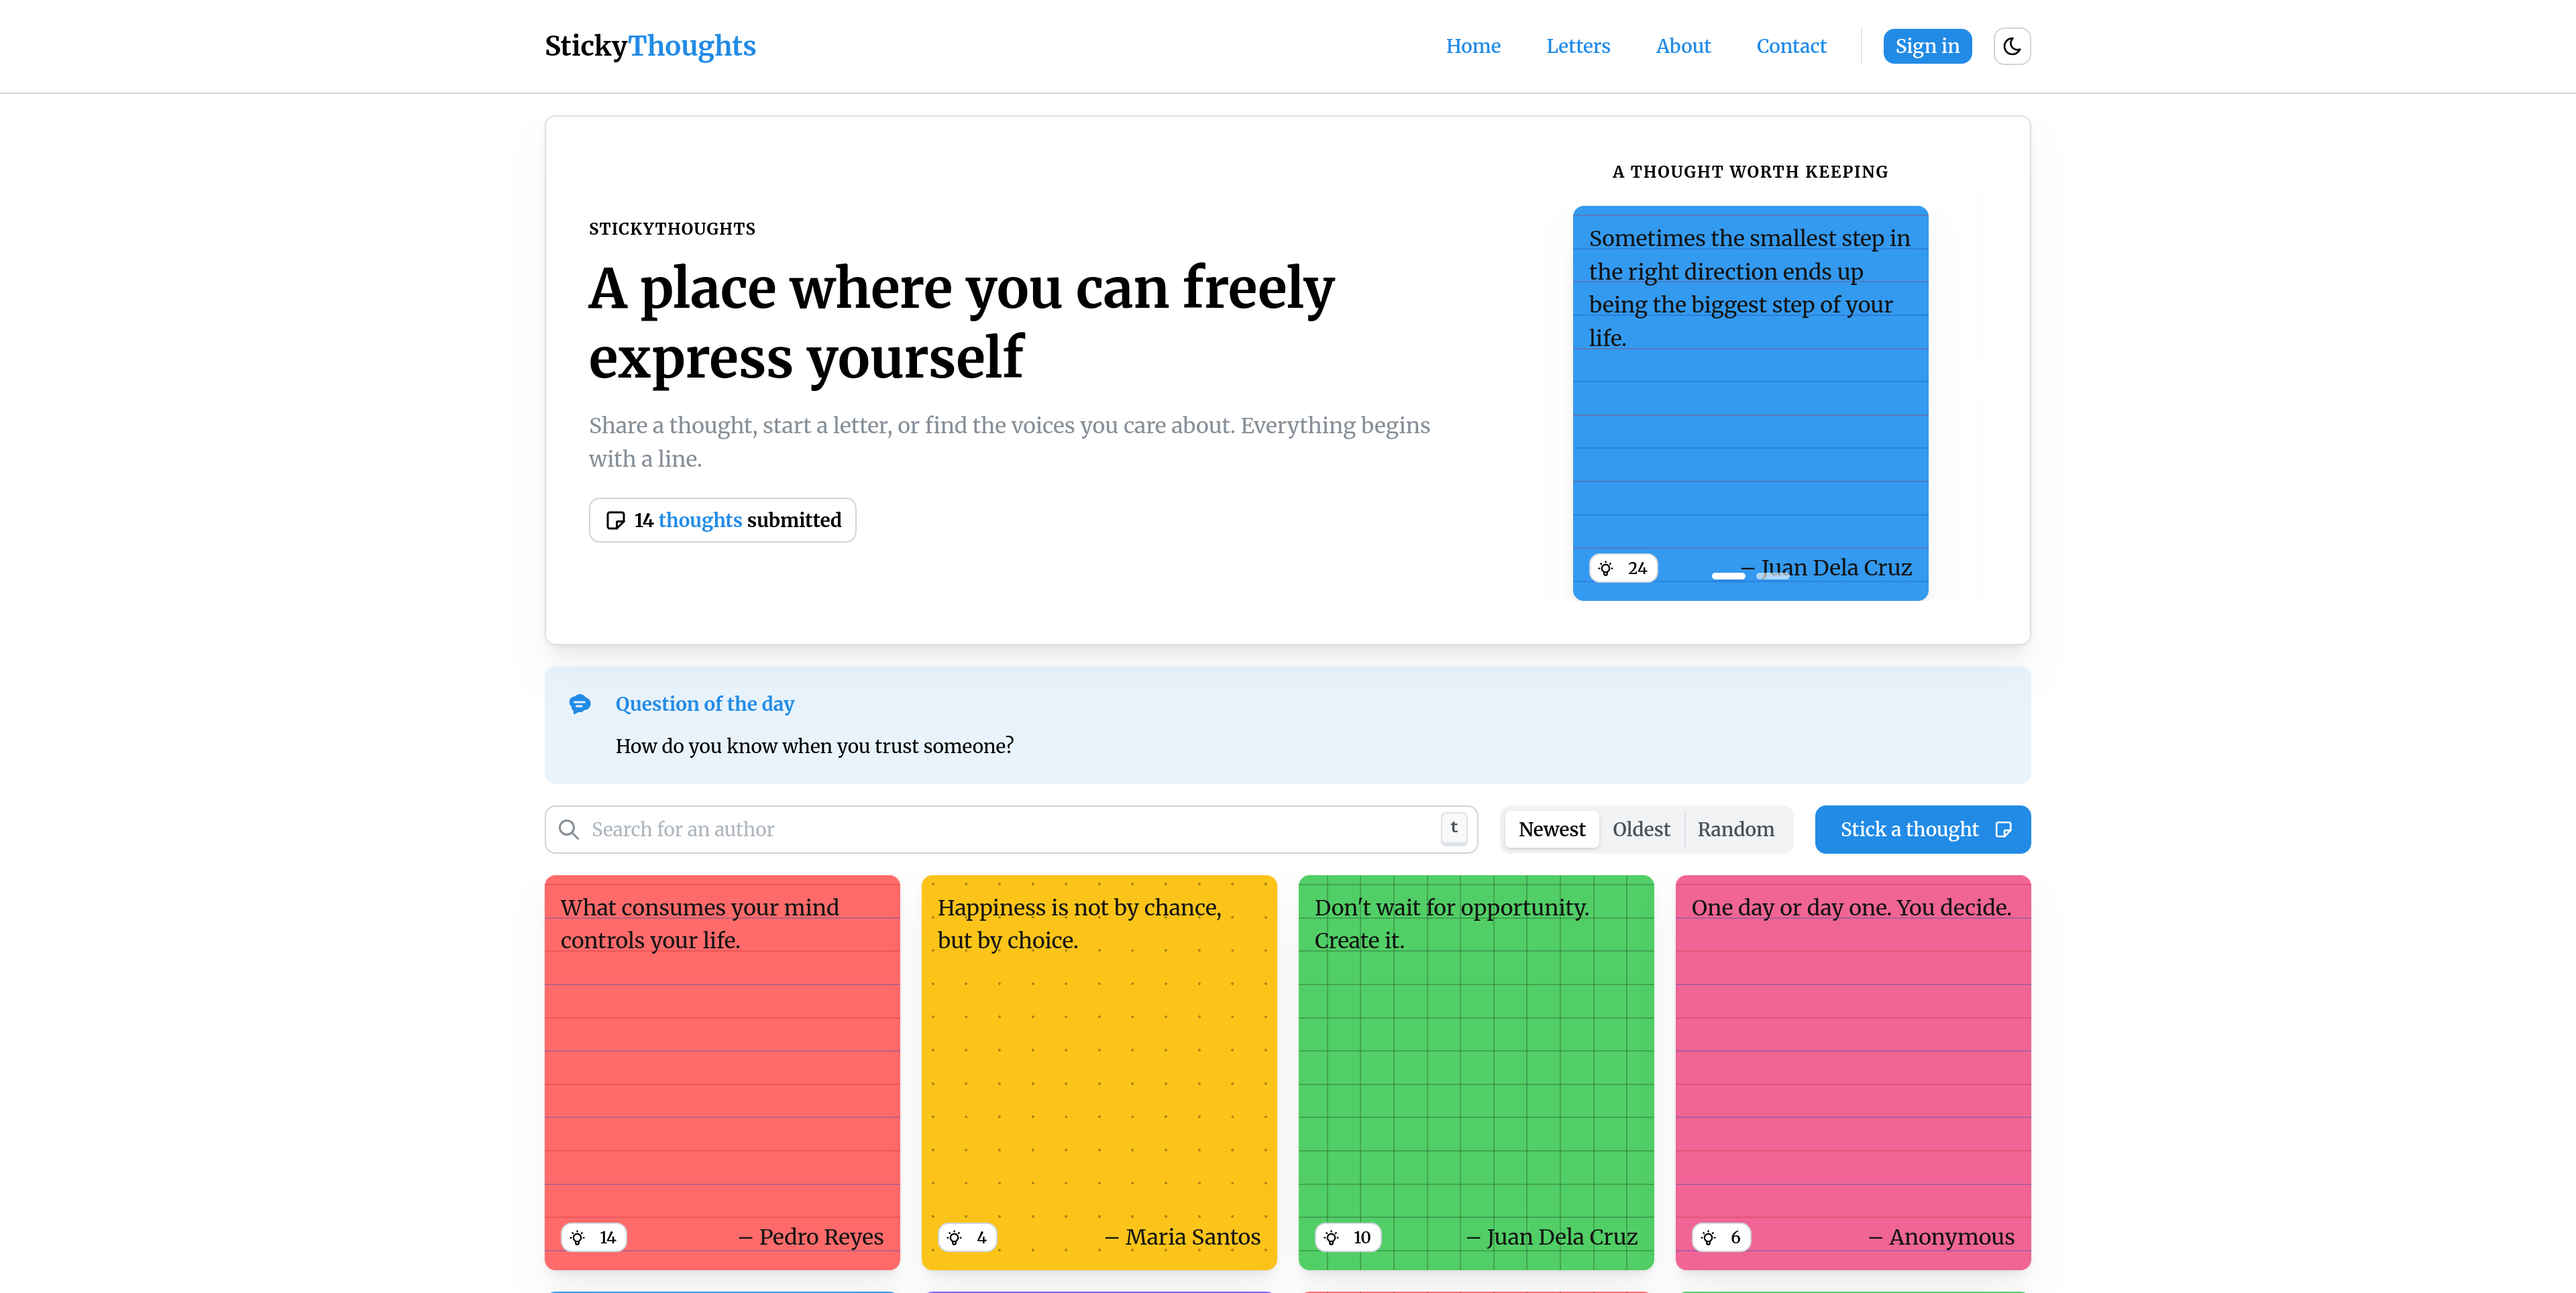
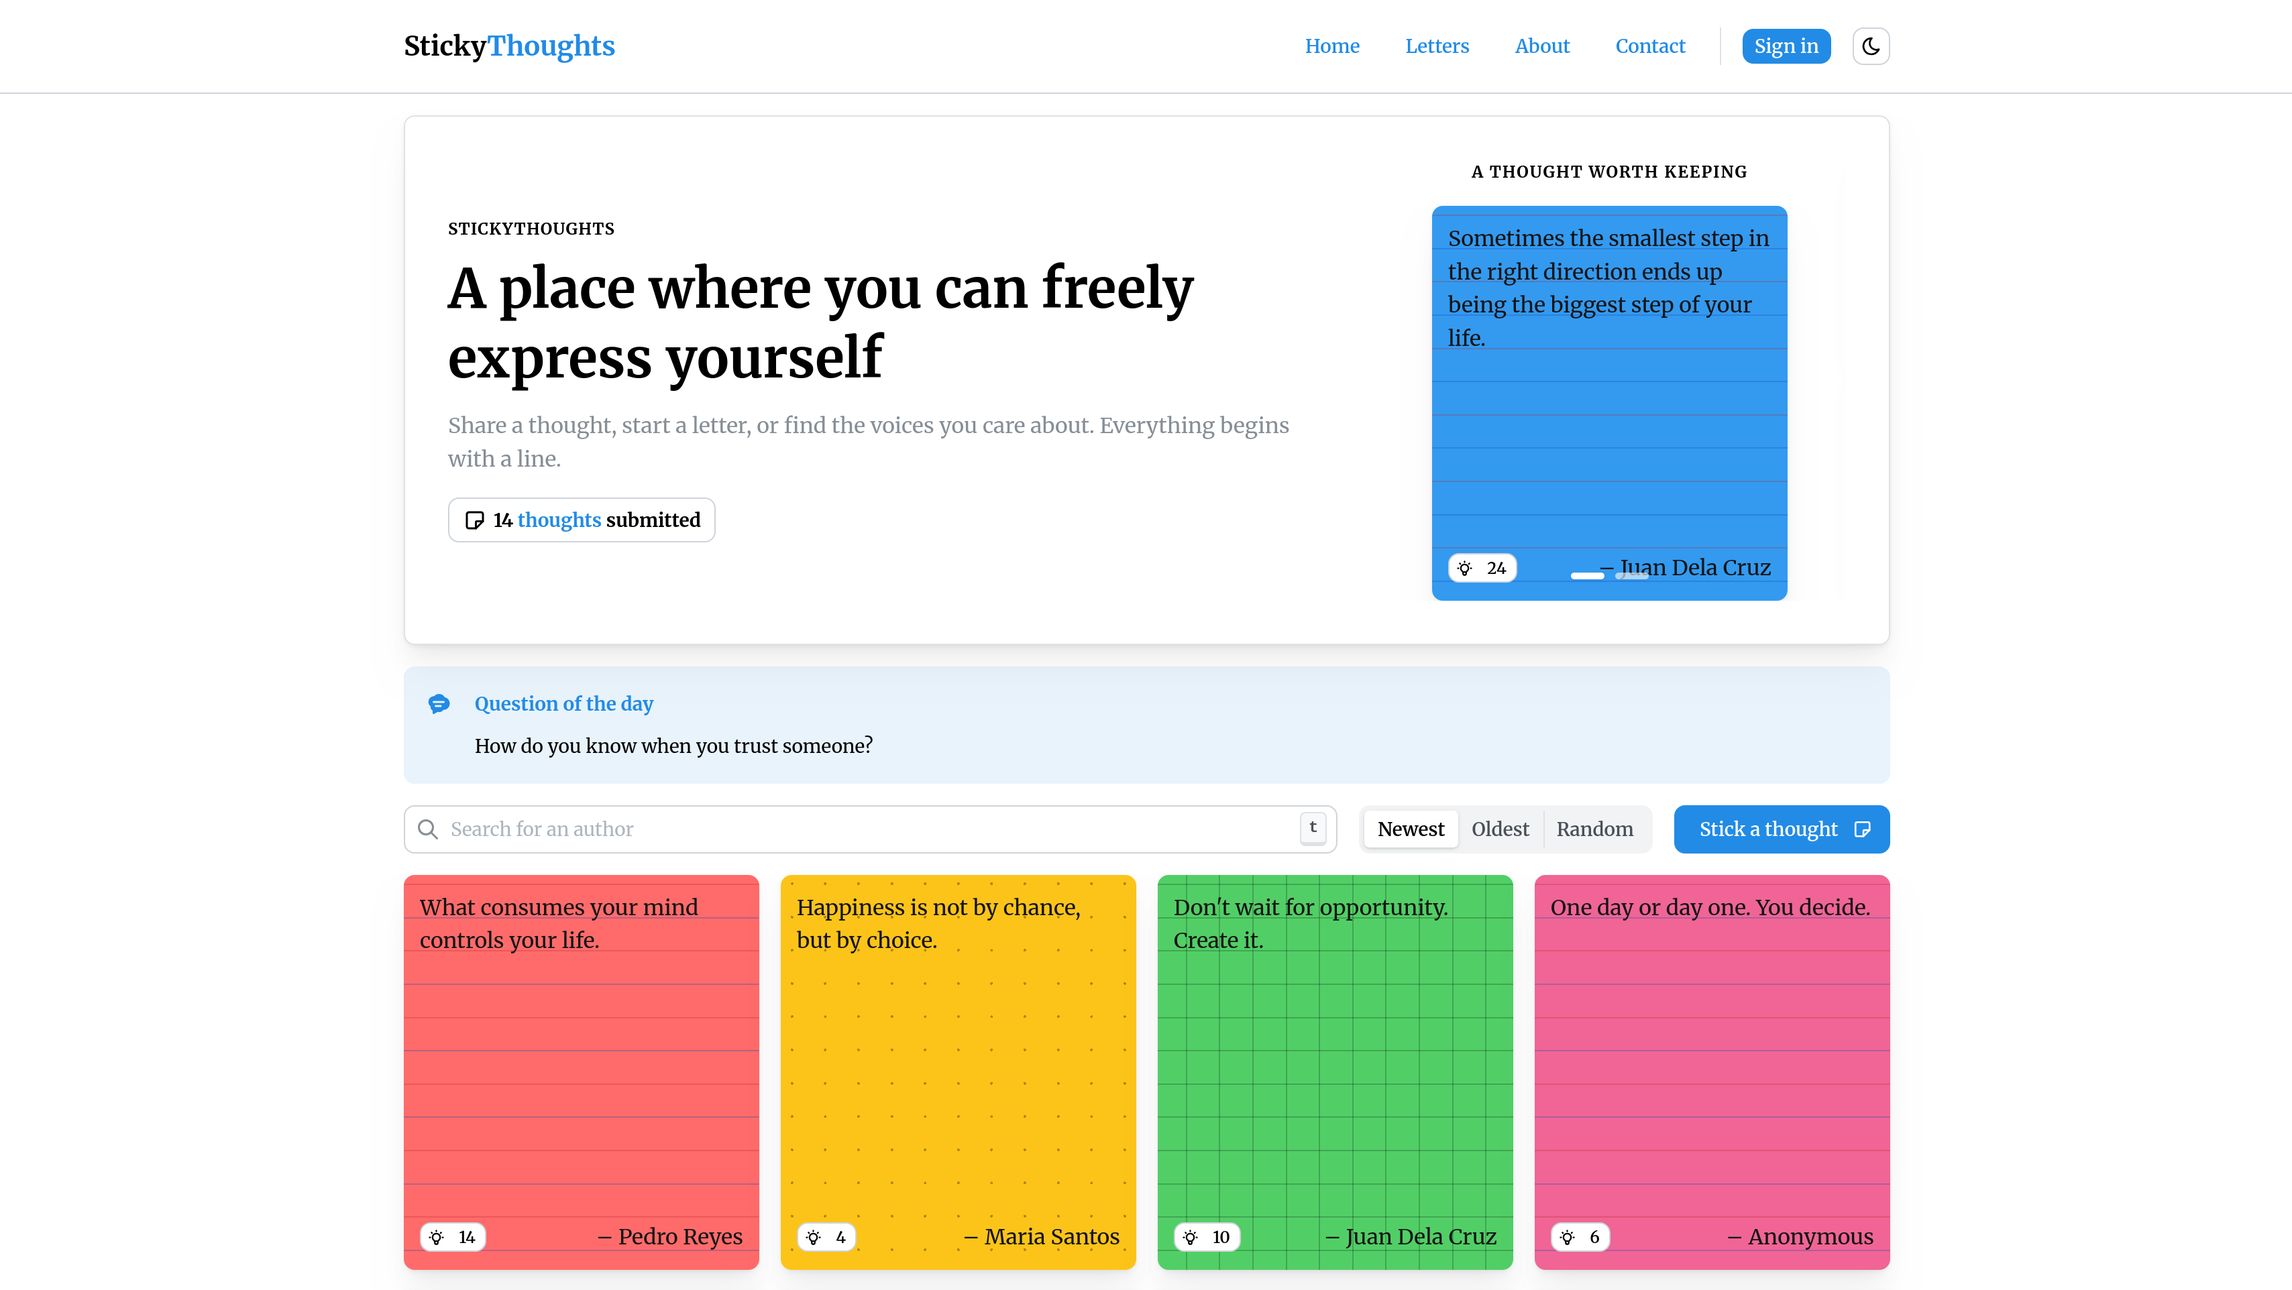
feat(projects): improve layout and standardize image aspect ratio

diff --git a/src/styles/global.css b/src/styles/global.css
@@ -61,6 +61,10 @@
   --spacing-lg: 1.25rem;
   --spacing-xl: 2rem;
 
+  /* for aspect ratio */
+  --aspect-ratio-square: 1 / 1;
+  --aspect-ratio-video: 16 / 9;
+
   /* for border radius */
   --border-radius-xs: 0.125rem;
   --border-radius-sm: 0.25rem;
@@ -73,8 +77,7 @@
   /* box shadow */
   --box-shadow: 0 0 15px rgba(0, 0, 0, 0.1);
   --content-box-shadow: 0 2px 6px rgba(0, 0, 0, 0.1),
-    0 8px 24px rgba(0, 0, 0, 0.1),
-    0 16px 32px rgba(0, 0, 0, 0.1);
+    0 8px 24px rgba(0, 0, 0, 0.1), 0 16px 32px rgba(0, 0, 0, 0.1);
 }
 
 *,
